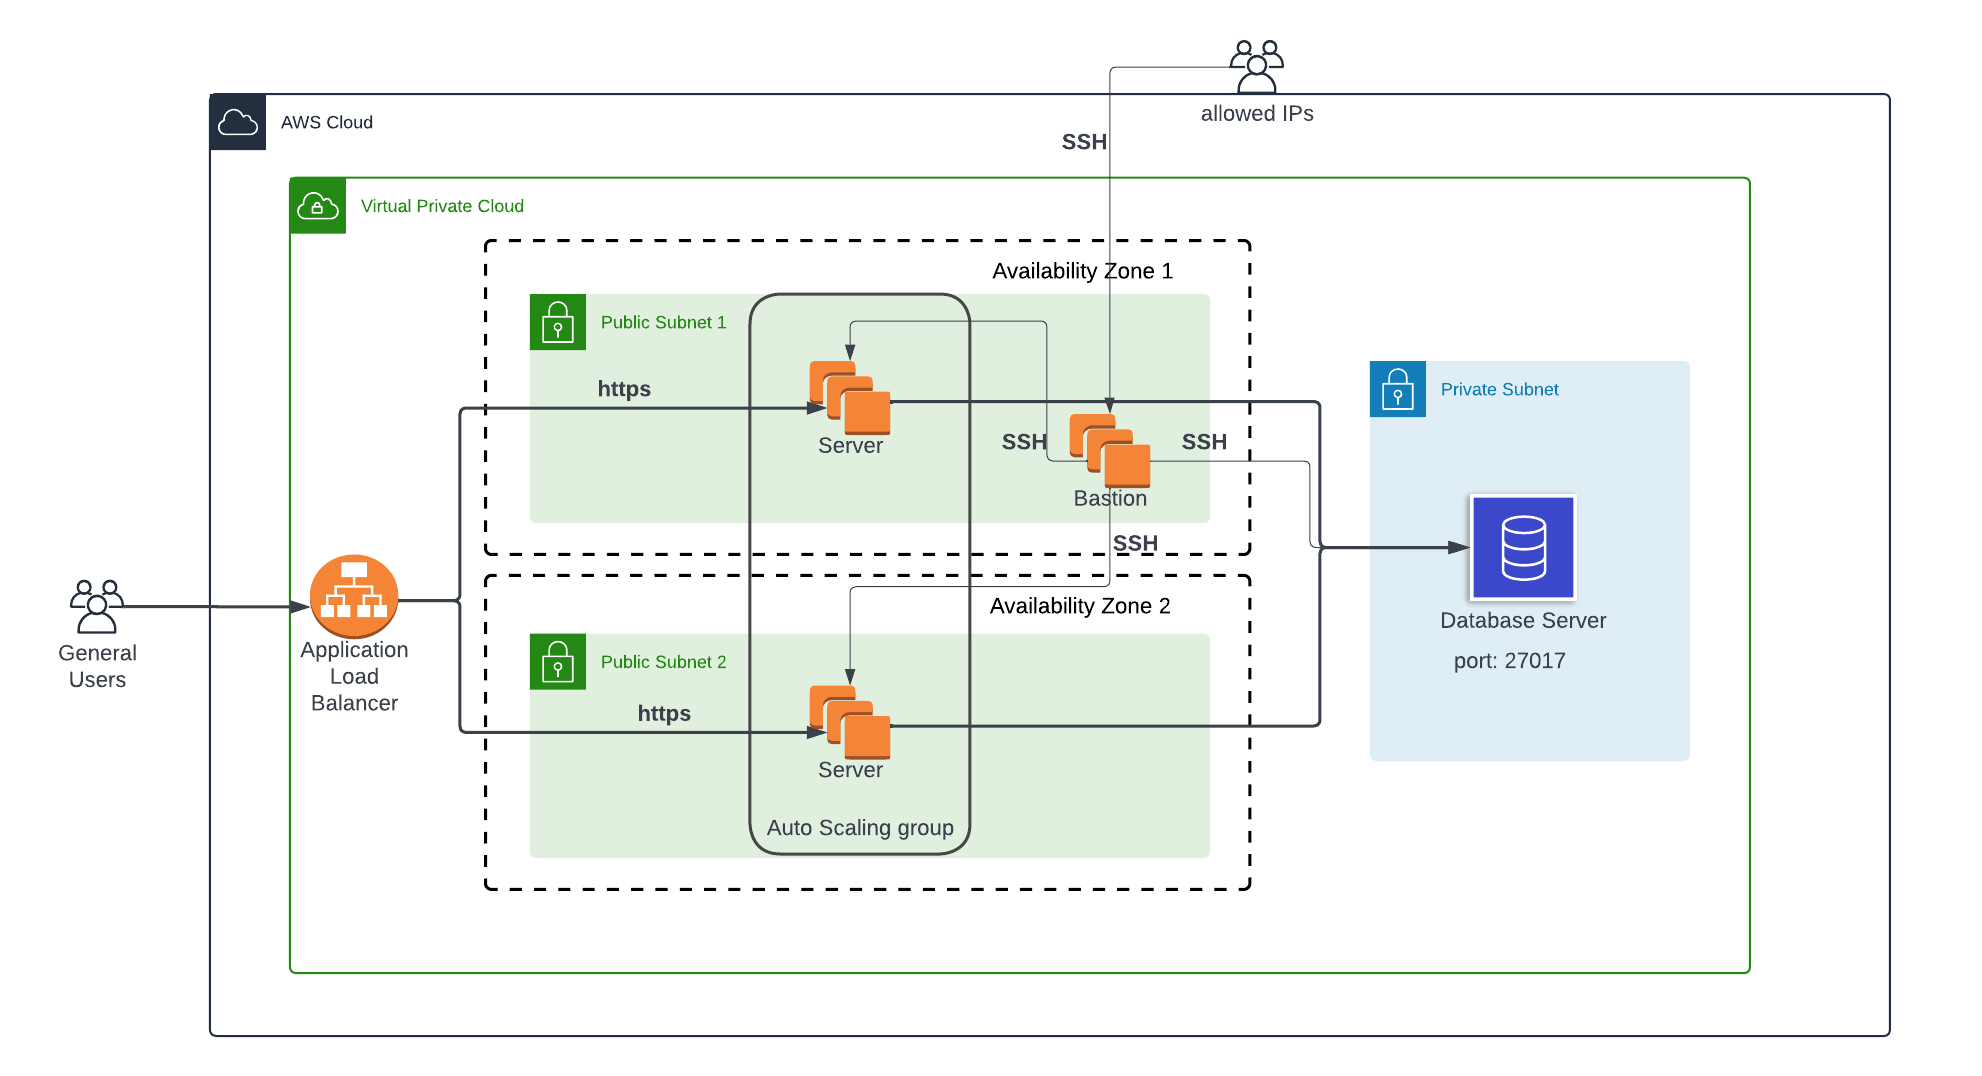
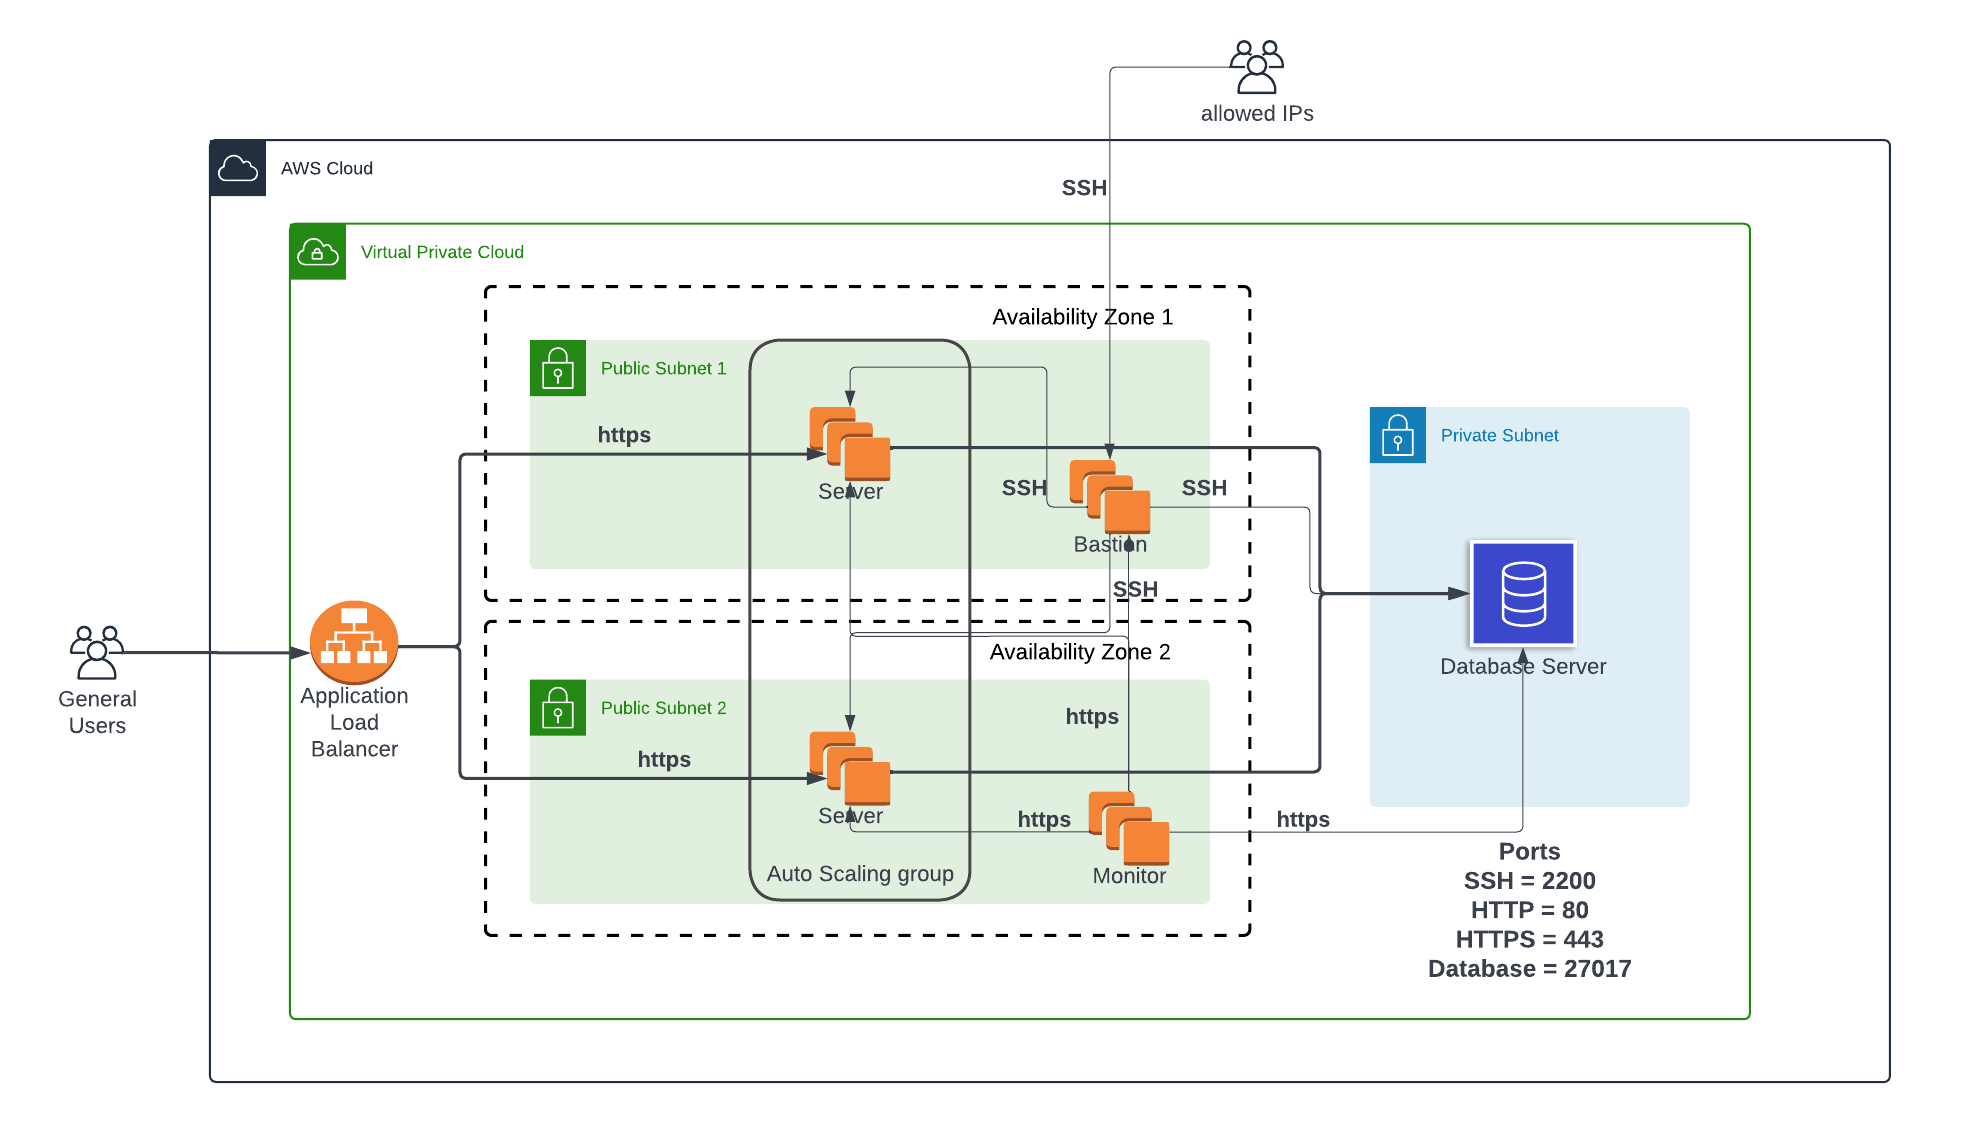
update: added monitoring to readme and architecture diagram

diff --git a/README.md b/README.md
@@ -18,3 +18,14 @@
 - Security Group Setup: Defined security groups for the instances, one for the bastion host and another for the database instance. Carefully specifying the inbound and outbound rules allowed to control traffic access effectively.
 
 - Private Subnet Configuration: With Terraform, a private subnet within the VPC was successfully created. By specifying the CIDR block and availability zone, and associating it with a separate route table without a default route to the internet gateway, enhanced security was established.
+
+
+# Configuration Management
+
+Configuration is handled using ansible. Config files can be found [here](./ansible).
+
+For initial setup, an ansible role is used to setup monitoring on all servers.
+
+```bash
+ansible-playbook playbook/deploy_monitoring.yml  -i inventories/production/ --tags server --limit 'monitoring-server' --private-key <path-to-private-key-file>
+```
